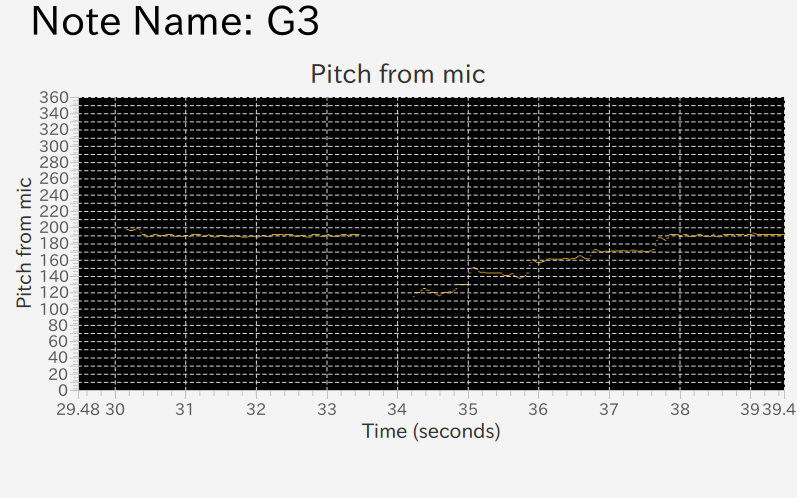
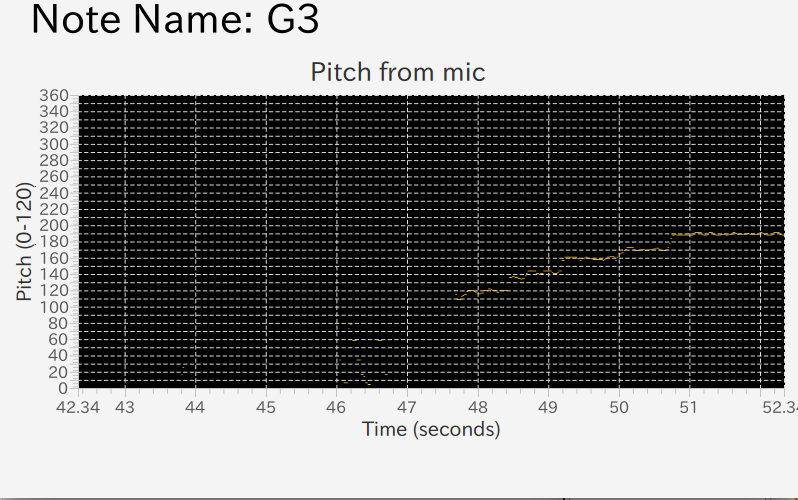
task2 completed

diff --git a/Task2_KaraokeSystem.java b/Task2_KaraokeSystem.java
@@ -272,7 +272,7 @@ public final class Task2_KaraokeSystem extends Application {
 
     /* チャートを作成 */
     final LineChart<Number, Number> chart = new LineChart<>(xAxis2, yAxis2);
-    chart.setTitle("Waveform");
+    chart.setTitle("Waveform from mic");
     chart.setCreateSymbols(false);
     chart.setLegendVisible(false);
     chart.setAnimated(false);
@@ -366,7 +366,7 @@ public final class Task2_KaraokeSystem extends Application {
     );
     xAxis_micS.setAnimated(false);
     final NumberAxis yAxis_micS = new NumberAxis(
-      /* axisLabel  = */ "Pitch from mic",
+      /* axisLabel  = */ "Pitch (0-120)",
       /* lowerBound = */ 0,
       /* upperBound = */ 360,
       /* tickUnit   = */ 10
